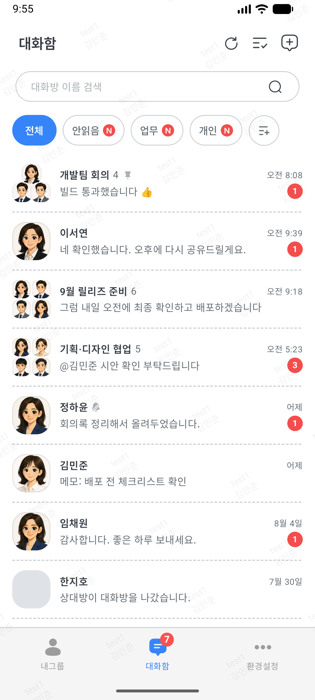
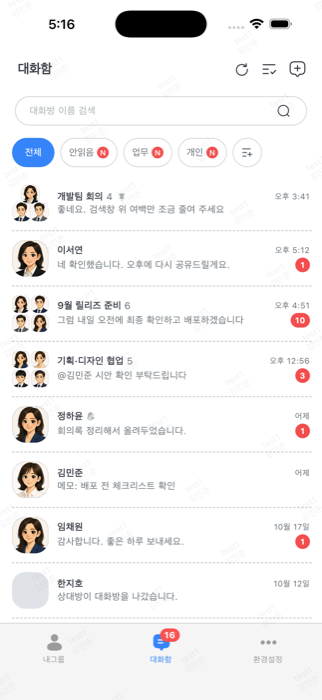
README 스크린샷의 대화방을 여러 대화 종류가 보이게 바꾼다
- 시드 대본이 사진·파일·이모티콘·답장·공감을 담을 수 있게 TestChats 에 대화 종류와 공감 수를 더한다
- 개발팀 회의 방을 사진(공감)·멘션·파일·이모티콘·답장(공감)이 한 화면에 들어오는 대본으로 바꾼다
- 시안 사진은 앱의 내 그룹 화면 캡처(seed_group_design.png)를 쓴다
- 시드가 바뀌어 기기 DB 이름을 v13 으로 올린다
- 태블릿(Android 2-pane)·폰(iOS) 대화방과 폰 대화함 스크린샷을 다시 찍는다

diff --git a/composeApp/src/commonMain/kotlin/com/eunilsung/talk/data/local/seed/TestChats.kt b/composeApp/src/commonMain/kotlin/com/eunilsung/talk/data/local/seed/TestChats.kt
@@ -7,14 +7,21 @@ import kotlinx.datetime.toInstant
 import kotlinx.datetime.toLocalDateTime
 import com.eunilsung.talk.domain.model.Chat
 import com.eunilsung.talk.domain.model.ChatRoom
+import com.eunilsung.talk.domain.model.Emoticon
+import com.eunilsung.talk.domain.model.EmpathyChat
+import com.eunilsung.talk.domain.model.ReplyChat
 import com.eunilsung.talk.domain.util.UserListCodec
 import com.eunilsung.talk.domain.model.User
+import multiplatformtalk.composeapp.generated.resources.Res
 
 /** 대화방별 초기 대화 내용. */
 object TestChats {
 
     /** 대화 간격 — 마지막 대화부터 이 간격만큼 거슬러 올라가며 배치. */
     private const val GAP_MINUTES = 7L
+
+    /** 시안 공유 대화에 쓰는 사진 — 앱의 내 그룹 화면을 캡처한 것. */
+    private const val SEED_DESIGN_IMAGE = "drawable/seed_group_design.png"
 
     fun seed(room: ChatRoom.Item, myId: String): List<Chat.Item> {
         val members = UserListCodec.decode(room.totalUserList)
@@ -27,16 +34,20 @@ object TestChats {
 
         val lastMillis = parseMillis(room.lastChatDate) ?: return emptyList()
 
-        /** 마지막 줄이 방의 lastChatDate 와 같은 시각이 되도록 역순으로 시간을 매긴다. */
-        return lines.mapIndexed { index, line ->
+        val speakers = lines.map { line ->
+            if (line.mine || others.isEmpty()) myId to myName else others[line.speakerIndex % others.size]
+        }
+        val everyone = listOf(myId to myName) + others
+
+        /** 마지막 줄이 방의 lastChatDate 와 같은 시각이 되도록 역순으로 시간을 매긴다. 답장은 앞의 대화를 가리키므로 앞에서부터 만든다. */
+        val chats = mutableListOf<Chat.Item>()
+        lines.forEachIndexed { index, line ->
             val fromEnd = lines.lastIndex - index
             val millis = lastMillis - fromEnd * GAP_MINUTES * 60_000L
-            val speaker =
-                if (line.mine || others.isEmpty()) myId to myName
-                else others[line.speakerIndex % others.size]
-
-            Chat.Item(
-                chatID = chatIdAt(millis, speaker.first, index),
+            val speaker = speakers[index]
+            val chatId = chatIdAt(millis, speaker.first, index)
+            val base = Chat.Item(
+                chatID = chatId,
                 chatType = Chat.Type.TEXT,
                 chatContent = line.text,
                 chatStatus = Chat.Status.COMPLETE,
@@ -44,8 +55,62 @@ object TestChats {
                 unReadCount = "0",
                 user = User(id = speaker.first, name = speaker.second),
                 isMe = speaker.first == myId,
+                empathy = empathyOf(chatId, line.empathy, everyone.filterNot { it == speaker }),
             )
+            chats += when (val body = line.body) {
+                Body.Text -> base
+                is Body.Picture -> base.copy(
+                    chatType = Chat.Type.IMAGE,
+                    chatContent = "",
+                    imagePath = resourceUri(body.resourcePath),
+                    imageSize = body.size,
+                )
+                is Body.Attachment -> base.copy(
+                    chatType = Chat.Type.FILE,
+                    chatContent = body.sizeLabel,
+                    originalFileName = body.fileName,
+                )
+                is Body.Sticker -> base.copy(chatType = Chat.Type.EMOTICON, emoticon = Emoticon(id = body.emoticonId))
+                is Body.Reply -> chats[body.toIndex].let { origin ->
+                    base.copy(
+                        chatType = Chat.Type.REPLY,
+                        replyChat = ReplyChat(
+                            chatID = origin.chatID,
+                            chatType = origin.chatType,
+                            chatContent = origin.chatContent,
+                            user = origin.user,
+                            emoticon = origin.emoticon,
+                            imagePath = origin.imagePath,
+                        ),
+                    )
+                }
+            }
         }
+        return chats
+    }
+
+    /**
+     * 앱에 든 리소스의 주소. JVM 단위 테스트에는 Android 컨텍스트가 없어 주소를 못 구하므로 경로를 그대로 둔다 —
+     * 테스트는 대화 수·종류만 보고 사진을 그리지 않는다.
+     */
+    private fun resourceUri(path: String): String = runCatching { Res.getUri(path) }.getOrDefault(path)
+
+    /** 공감 아이콘 번호(0~5)별로 누른 사람 수만큼 [reactors] 앞에서부터 채운다. */
+    private fun empathyOf(chatId: String, counts: Map<Int, Int>, reactors: List<Pair<String, String>>): EmpathyChat {
+        if (counts.isEmpty()) return EmpathyChat()
+        var cursor = 0
+        val byIcon = counts.mapValues { (_, count) ->
+            List(count) { reactors[(cursor++) % reactors.size] }.map { User(id = it.first, name = it.second) }
+        }
+        return EmpathyChat(
+            chatID = chatId,
+            empathy0 = byIcon[0].orEmpty(),
+            empathy1 = byIcon[1].orEmpty(),
+            empathy2 = byIcon[2].orEmpty(),
+            empathy3 = byIcon[3].orEmpty(),
+            empathy4 = byIcon[4].orEmpty(),
+            empathy5 = byIcon[5].orEmpty(),
+        )
     }
 
     /**
@@ -74,7 +139,27 @@ object TestChats {
         return lines.takeLastWhile { !it.mine }
     }
 
-    private data class Line(val text: String, val mine: Boolean, val speakerIndex: Int = 0)
+    /**
+     * 대본 한 줄. [body] 로 대화 종류를 고르고, [empathy] 는 공감 아이콘 번호 → 누른 사람 수다.
+     * 문자 대화가 아니면 [text] 는 비워 둔다(답장은 답장 본문).
+     */
+    private data class Line(
+        val text: String,
+        val mine: Boolean,
+        val speakerIndex: Int = 0,
+        val body: Body = Body.Text,
+        val empathy: Map<Int, Int> = emptyMap(),
+    )
+
+    /** 문자 말고 시연할 대화 종류. 사진은 앱에 든 리소스를 쓰고, 파일은 이름과 크기만 보인다. */
+    private sealed interface Body {
+        data object Text : Body
+        data class Picture(val resourcePath: String, val size: String) : Body
+        data class Attachment(val fileName: String, val sizeLabel: String) : Body
+        data class Sticker(val emoticonId: String) : Body
+        /** [toIndex] 번째 줄에 대한 답장. */
+        data class Reply(val toIndex: Int) : Body
+    }
 
     private fun scriptFor(
         room: ChatRoom.Item,
@@ -89,12 +174,15 @@ object TestChats {
                 Line("메모: 배포 전 체크리스트 확인", mine = true),
             )
 
+            /** 스크린샷 시연용 — 사진·파일·이모티콘·답장·멘션·공감이 한 화면에 들어오게 짰다. */
             room.id == "room_group_dev" -> listOf(
                 Line("오늘 스프린트 리뷰 3시에 시작합니다", mine = true),
-                Line("네 준비하겠습니다", mine = false, speakerIndex = 0),
-                Line("저는 로그인 쪽 작업 공유드릴게요", mine = false, speakerIndex = 1),
-                Line("좋습니다. 빌드도 한번 돌려주세요", mine = true),
-                Line("빌드 통과했습니다 👍", mine = false, speakerIndex = 0),
+                Line("", mine = false, speakerIndex = 0, body = Body.Sticker("(손말_안녕하세오)")),
+                Line("", mine = false, speakerIndex = 1, body = Body.Picture(SEED_DESIGN_IMAGE, "414:230"), empathy = mapOf(0 to 2, 1 to 1)),
+                Line("@$myName 내 그룹 화면 시안입니다. 확인 부탁드려요", mine = false, speakerIndex = 1),
+                Line("", mine = false, speakerIndex = 2, body = Body.Attachment("QA_체크리스트_v2.xlsx", "248KB")),
+                Line("", mine = false, speakerIndex = 0, body = Body.Sticker("(손말_오케이)")),
+                Line("좋네요. 검색창 위 여백만 조금 줄여 주세요", mine = true, body = Body.Reply(toIndex = 3), empathy = mapOf(1 to 2, 2 to 1)),
             )
 
             /** 스크롤·페이징 확인용 긴 방 — 총 35줄, 마지막 10줄이 상대 대화라 안읽음 10. */

diff --git a/composeApp/src/commonMain/kotlin/com/eunilsung/talk/data/local/seed/TestChatRooms.kt b/composeApp/src/commonMain/kotlin/com/eunilsung/talk/data/local/seed/TestChatRooms.kt
@@ -55,7 +55,7 @@ object TestChatRooms {
                 title = "개발팀 회의",
                 me = me,
                 memberIds = listOf("test2", "test3", "test4").map { partner(it) }.distinct(),
-                lastChat = "빌드 통과했습니다 👍",
+                lastChat = "좋네요. 검색창 위 여백만 조금 줄여 주세요",
                 minutesAgo = 95,
                 pinned = true,
             ),

diff --git a/composeApp/src/commonMain/kotlin/com/eunilsung/talk/Config.kt b/composeApp/src/commonMain/kotlin/com/eunilsung/talk/Config.kt
@@ -30,7 +30,7 @@ object Config {
      * 서버 목록에 없는 방을 지울 때 시연용 데이터까지 지워진다.
      */
     object Database {
-        val NAME: String = if (Server.IS_ENABLED) "AppDatabase_server_v1.db" else "AppDatabase_v12.db"
+        val NAME: String = if (Server.IS_ENABLED) "AppDatabase_server_v1.db" else "AppDatabase_v13.db"
     }
 
     object MyInfo {
